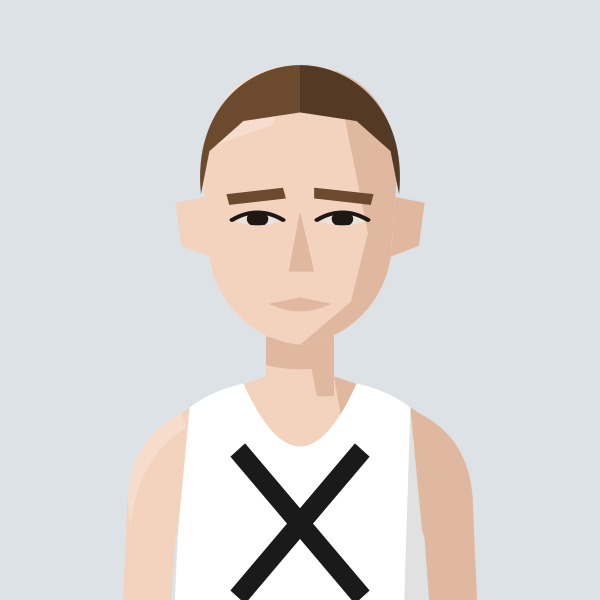
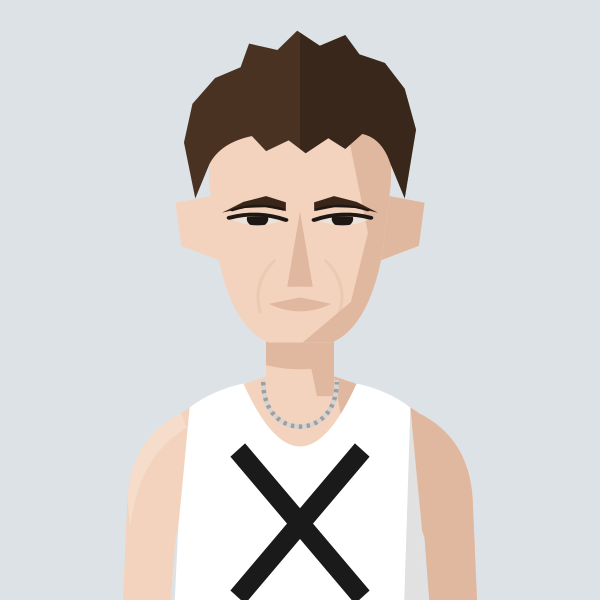
Redraw Jacob Brockmann portrait: arched brows, light creases, squarer chin
Claude-Session: https://claude.ai/code/session_01MgmDWhFqnSSnP4iBLKXUZC

diff --git a/files/index.html b/files/index.html
@@ -887,7 +887,7 @@ const portraitFile=(name,club)=>{const k=normalizeNameForCompare(name||'').repla
 const portraitClubOf=(name,clubs)=>{for(const c of clubs||[]){if(c&&portraitFile(name,c))return c;}return null;}; /* first of these clubs we have a portrait for */
 // Athlete header figure: superstar portrait if we have one, else a grey runner in the club vest, else the plain vest icon
 // Changes whenever any portrait changes (set by tools/build_og.py), so browsers fetch fresh images instead of old cached ones
-const PORTRAIT_V='8a8cc05c';const PORTRAIT_WOMEN='abbey-brooke,abbie-bulbulian,adele-prince,aimee-hargreaves,aisling-ahern,alex-brown,alex-gandee,alex-marginean,alex-miller,alexa-parker,alexandra-barbour,alice-braham,alice-bridger-morales,alice-crane,alice-martin,alice-reed,alice-smith,alison-purnell,alison-thomson,amelia-pettitt,amy-clements,andrea-barber,anika-schwarze-chintapatla,anna-garnier,anna-garnier-hw,anna-sharp,annabel-hobday,annabelle-hadlow,anne-hegvold,annmarie-seymour,ava-mcandie,becky-briggs,bethan-goddard,bethanie-murray,bethany-brown,betsy-griffiths,billie-mcclosky,camilla-barden,caoimhe-nic-fhogartaigh,carolyne-baxter,catherine-bryson,catherine-eastham,catherine-kandie,cathy-ansell,charlotte-griffiths,chloe-beckett,chloe-tighe,chrissie-wellington,claire-grima,clara-pettit,clare-elms,clare-pauzers,dillan-quinn,dorchie-cockerell,eilidh-hide,elinor-skinner,eliza-grant,elizabeth-apsley,elizabeth-stavreski,ella-fennelly,ella-king-powrie,ella-may-hards,ella-newton,ellen-weir,ellie-brown,ellie-freeden,eloise-bull,emilie-arnoux,emily-barrett,emily-bradley,emily-lowery,emily-robbins,emma-bond,emma-gordon,emma-howsham,emma-lord,emma-rowland,estle-viljoen,evie-warren,felicity-cole,felicity-harrison,felicity-hayward,fi-maddocks,fiona-de-mauny,florence-wiggins,gabby-collison,gabriel-reynolds,gemma-newport,genevieve-blanch,georgia-curry,georgie-bruinvels,georgie-fenn,georgie-furze,georgie-grgec,gina-galbraith,grace-leyland,grace-richardson,hannah-edwards,hannah-english,heather-statham,heather-statham-cc,helen-alsop,helena-corbin,helena-keenan,holly-nixon,holly-pan,imogen-mackie,imogen-wolsey,iona-cousland,isabel-bradley,isabel-brinsden,isabel-hodder,isabelle-pickett,jennifer-nandi,jennifer-smith,jess-reed,jess-saunders,jess-winfield,jessica-davies,jessica-lowe,jodie-favell,jon-hobbs,josephine-rhodes,julia-bleasdale,julia-wedmore,juliet-hodder,juliette-clark,jurgita-levertaviciute,justine-lynch,karen-fenner,karen-xiang,karina-box,kate-axford,kate-williams,kathy-sharpe,katie-ellen-french,katie-good,katie-snowden,katy-hedgethorne,kitty-shepherd-cross,kristina-popadich,lara-bromilow,lara-mangan,laura-goodson,laura-miles,lauren-major,lea-adamson,lily-newton,lisa-bailey,lisa-thomas,lisa-thomas-hw,lizzie-goldie-scot,louise-cooper,lucy-jones,lucy-macalister,lucy-peters,lydia-blackmore,lydia-gallyer-barnett,maddie-mastrolonardo,maddy-whitman,maeve-kenny,margaret-coogan,martina-conner,mary-james,mary-setyabule,matilde-lomba,megan-gildea,mel-wilkins,mhairi-hall,mimi-corden-lloyd,molly-oconnor,molly-smith,monika-gajek,naomi-lenane,natalie-beadle,natalie-seymour,natasha-lodge,niamh-thompson,nicky-hayes,nicola-cartlidge,nicola-douglas,nikki-haines,nikki-sturzaker,nina-mills,olivia-papaioannou,olivia-stillman,orna-mcginley,pamela-mchutchon,patricia-walker,patrizia-gnoato,penny-oliver,rachel-brown,rebecca-barrow,rebekah-edgar,rosie-powell,ruby-carter,ruby-whyte-wilding,ruby-woolfe,sally-urquhart,sally-young,sally-young-slh,sam-whiting,samantha-munday,sarah-astin,sarah-dewhirst,sarah-grover,sarah-hanley,sarah-holt,sarah-murphy,sarah-palmer,sarah-palmer-ran,sarah-riceman,sarah-young,saron-haileselase,serena-carter,sophie-cowper,sophie-harris,sophie-hicks,sophie-tooley,stacey-ward,steph-hewitt,steph-mccall,steph-mccall-cc,steph-mccall-slh,steph-mitchell,suzanne-swaine,suze-spalding,suzie-harvey,suzy-whatmough,syreeta-stracey,teresa-murphy,tilly-heaton,tilly-heaton-bel,tish-jones,vic-cartwright,vicky-clarke,vicky-edwards,victoria-barthelmess,victoria-buck,vikki-filsell,zoe-doyle,zoe-macdonald,zuzana-nemeckova';const PORTRAIT_MEN='aaron-wilson,abdulla-elsadig,adam-leane,adrian-major,adrien-royer,alan-black,alan-mead,alex-brecker,alex-bruce-littlewood,alex-gutteridge,alex-harris,alex-howard,alex-janiaud,alex-lee,alex-lennon,alex-mills,alex-milne,alex-morales,alex-robinson,alex-yee,alexander-marks,amittai-ben-israel,andrew-cumine,andrew-green,andrew-penney,andrew-perfect,andrew-simms,andrew-warburton,andrius-jaksevicius,andy-coley-maud,andy-coley-maud-cc,andy-fyfe,andy-north,andy-paton,andy-weir,angus-butler,angus-lamb,anisse-ismaili,arlo-ludewick,arne-dumez,arthur-peel,ashley-goncalves,barnaby-day,barry-collins,barry-sawyer,ben-clarke,ben-coughlan,ben-harding,ben-hurley,ben-ireland,ben-millar,ben-paviour,ben-pearce,ben-racle,ben-revill,ben-reynolds,ben-scott,ben-toomer,benedict-whitby,benjamin-hilson,bernie-ford,bill-kerr,bill-weller,bill-weller-wal,bob-harrison,bob-holt,bob-lunnon,bob-rayman,bob-smith,bradley-courtney-pinn,brandon-dewar,brian-gorman,brian-wilder,caleb-hathaway,callum-stewart,cameron-dockerill,cameron-reilly,carl-delaney,charles-herrington,charlie-dabbs,charlie-dickinson,charlie-eastaugh,charlie-manning,charlie-pickett,charlie-rogers,charlie-sandison,charlie-walker,charlie-wyllie,che-compton,chris-busaileh,chris-busaileh-hhh,chris-greenwood,chris-keavey,chris-moss,chris-steer,chris-threadgold,chris-warren,christian-lee,christopher-parker,clive-gilby,clive-shippen,colin-high,colin-pearson,conall-mcnally,conall-whelan,craig-ruddy,dame-dibaba,dan-cliffe,dan-pettitt,daniel-shaw,daniel-wolff,darren-mead,dave-beard,dave-beaver,dave-clarke,dave-glassborow,dave-hill,dave-holt,dave-taylor,david-anderson,david-bowers,david-grima,david-north,david-ogden,david-symons,david-walsh,david-williams,deron-fagan,dick-piotrowski,dimos-evangelidis,dom-nolan,dominic-kiralyfi,don-anderson,don-faircloth,don-maclean,doug-maughan,duncan-rimmer,dylan-evans,dylan-mitchard,ed-brewer,ed-catmur,ed-gibson,ed-mallett,ed-prickett,eddie-herridge,eddie-jodrell,eddie-rolls,edward-chuck,eoin-brady,eoin-molloy,ethan-mccolgan,falilou-kebe,findlay-dyer,finn-johnson,fintan-pearce,frank-tickner,frank-ward,fred-paget,fred-slemeck,fred-stebbings,freddie-hessian,garret-lee,gary-ribbons,gary-ribbons-ee,gary-staines,gary-staines-bel,gavin-eccles,geoff-biscoe,geoff-jerwood,geoff-north,george-cotton,george-gathercole,george-jackson,george-loxton,george-mallett,george-ogden,gerry-adams,gerry-north,glen-keegan,gordon-pearce,graham-macky,grenville-tuck,harrison-hayman,harry-guttridge,hector-revill,henry-hart,henry-silverstein,hugo-hewitt,huw-lobb,ian-acreman,ian-crowe-wright,ian-ellwood,ian-harkness,indy-barnes,isaac-lutaya,isaac-parker,jack-brotchie,jack-dickson,jack-dormer,jack-hampshire,jack-harrison,jack-hobden,jack-kavanagh,jack-millar,jack-ramm,jack-woods,jacob-brockmann,jake-simmonds,james-bartram,james-blackwood,james-bowler,james-estall,james-ewing,james-fox,james-hancock,james-harvey,james-hoad,james-kelly,james-mcmullan,james-murray,james-nutt,james-preston,james-roberts,james-stockings,james-ward,james-wootton,jamie-crowe,jamie-parkinson,jared-martin,jean-paul-wright,jeff-cunningham,jeremy-dempsey,jermaine-mays,jerry-watson,jim-allchin,jim-rimmer,joachim-wolf,joe-english,joe-hartley,john-baker,john-bicourt,john-bromley,john-davies,john-dear,john-foss,john-foxall,john-gilbert,john-gladwin,john-hutchins,john-kendall,john-kimaiyo,john-lee,john-lethbridge,john-mather,john-moore,john-roberts,john-sanderson,john-snowden,john-stow,john-sullivan,john-thresher,jon-pepper,jon-pepper-slh,jon-phillips,jon-solly,jonathan-cocker,jonathan-collier,jonathan-cornish,jonathan-ratcliffe,jonathan-tipper,jonny-neville,jonny-scott,jordan-weaver,josh-mitchell,josh-snow,josh-trigwell,jules-gevers,junior-galley,justin-chaston,justin-reid,kassa-tadesse,keith-newton,ken-penney,ken-penney-cro,kevin-nash,kevin-quinn,kevin-sturman,kieran-barnes,kieran-white,knut-hegvold,knut-hegvold-bel,larry-ryan,lawrence-avery,lee-lintern,les-presland,les-presland-sur,lewis-lloyd,liam-burthem,lionel-mann,lloyd-kempson,luke-caldwell,mack-downie,malachi-byansi,marcello-bizio,marcelo-fortes,marco-mazzotta,mark-anderson,mark-miles,mark-sinclair,mark-tennyson,mark-waller,martin-dent,martin-duff,martin-lake,martin-lewington,martin-shore,mathew-speed,matt-chaston,matt-jones,matt-wood,matt-yates,matthew-edgar,matthew-houchell,matthew-thomas,matthew-varley,max-bloor,max-heyden,max-milarvie,max-nicholls,michael-baker,michael-mccarthy,mick-gowan,mick-woods,mike-beevor,mike-boyle,mike-cummings,mike-farmery,mike-fuller,mike-hayes,mike-kortenray,mike-nouch,mohammed-ismail,monty-hudson,morgan-roberts,nathan-visick,neil-chisholm,neil-phillips,neil-speaight,neil-wilson,nic-lukies,nick-acfield,nick-altmann,nick-bester,nick-bester-hhh,nick-buckle,nick-bundle,nick-goolab,nick-lightfoot,nick-morris,nick-torry,noah-fernandez,norman-stairs,oli-carrington,oliver-carrington,oliver-fox,oliver-reynolds,oliver-young,ollie-foote,ollie-garrod,olly-buck,owen-hind,paddy-roddy,pancho-panchev,paskar-owor,pat-newell,patrick-mcdougall,paul-calver,paul-cheetham,paul-evans,paul-freary,paul-magner,paul-pollock,paul-sanderson,paul-sanderson-wok,pete-carton,pete-gardner,peter-clarke,peter-giles,peter-giles-thh,peter-lighting,phil-carstairs,phil-sanders,phil-sesemann,phil-swinburn,phil-wicks,phil-woodford-smith,raj-paranandi,ralph-street,ranjit-bhatia,ray-foley,reece-edwards,rhys-boorman,rian-mccawley,richard-ashe,richard-giles,richard-henderson,richard-langley,richard-mcdowell,richard-ollington,richard-partridge,richard-sun,richard-ward,rob-armstrong,rob-kelly,rob-tuer,robert-elphick,robert-laing,robert-norville,robert-peacock,robert-sesemann,robin-boon,robin-hudson,roger-alsop,roger-alsop-bel,roger-hackney,ron-clark,ron-linstead,ronan-tanguy,rory-mcmahon,rory-orsborn,ross-braden,ross-christie,rowan-board,rowan-crichton,russell-dessaix-chin,ryan-hickey,ryan-mccallister,sam-bramwell,sam-charlton,sam-gebreselassie,sam-haughian,sam-peters,sam-sommerville,sam-tyas,samuel-dames,samuel-wilcock,sean-cordon,sebastian-anthony,simon-baines,simon-coombes,simon-coppard,simon-fairbrother,simon-holmes,simon-rayner,simon-rayner-hw,simon-wade,simon-wade-hhh,simon-waterhouse,simon-williams,simon-wurr,sonny-nicoll,spencer-barden,stephen-mcleod,stephen-sharp,steve-badgery,steve-badgery-mit,steve-gardner,steve-jones,steve-smythe,steve-smythe-hhh,stuart-beaney,stuart-major,stuart-major-thh,stuart-mccallum,stuart-paton,terry-booth,thomas-dugre,thomas-gandee,thomas-gardner,thomas-renshaw,tim-alexander,tim-eglen,tim-lawrence,tim-watson,toby-cooke,toby-fletcher,tom-austin,tom-cheetham,tom-conlon,tom-davies,tom-gifford,tom-higgs,tom-jervis,tom-lole,tom-south,tom-thornley,tommy-taylor,tony-binda,tony-fairclough,tony-harran,trevor-hart,valdis-pauzers,valentin-rigori,vic-maughan,wayne-oxborough,will-cockerell,will-lewis,will-marshall,will-scott,will-stockley,william-gardner,yacin-yusuf,zach-nolan';
+const PORTRAIT_V='518fd189';const PORTRAIT_WOMEN='abbey-brooke,abbie-bulbulian,adele-prince,aimee-hargreaves,aisling-ahern,alex-brown,alex-gandee,alex-marginean,alex-miller,alexa-parker,alexandra-barbour,alice-braham,alice-bridger-morales,alice-crane,alice-martin,alice-reed,alice-smith,alison-purnell,alison-thomson,amelia-pettitt,amy-clements,andrea-barber,anika-schwarze-chintapatla,anna-garnier,anna-garnier-hw,anna-sharp,annabel-hobday,annabelle-hadlow,anne-hegvold,annmarie-seymour,ava-mcandie,becky-briggs,bethan-goddard,bethanie-murray,bethany-brown,betsy-griffiths,billie-mcclosky,camilla-barden,caoimhe-nic-fhogartaigh,carolyne-baxter,catherine-bryson,catherine-eastham,catherine-kandie,cathy-ansell,charlotte-griffiths,chloe-beckett,chloe-tighe,chrissie-wellington,claire-grima,clara-pettit,clare-elms,clare-pauzers,dillan-quinn,dorchie-cockerell,eilidh-hide,elinor-skinner,eliza-grant,elizabeth-apsley,elizabeth-stavreski,ella-fennelly,ella-king-powrie,ella-may-hards,ella-newton,ellen-weir,ellie-brown,ellie-freeden,eloise-bull,emilie-arnoux,emily-barrett,emily-bradley,emily-lowery,emily-robbins,emma-bond,emma-gordon,emma-howsham,emma-lord,emma-rowland,estle-viljoen,evie-warren,felicity-cole,felicity-harrison,felicity-hayward,fi-maddocks,fiona-de-mauny,florence-wiggins,gabby-collison,gabriel-reynolds,gemma-newport,genevieve-blanch,georgia-curry,georgie-bruinvels,georgie-fenn,georgie-furze,georgie-grgec,gina-galbraith,grace-leyland,grace-richardson,hannah-edwards,hannah-english,heather-statham,heather-statham-cc,helen-alsop,helena-corbin,helena-keenan,holly-nixon,holly-pan,imogen-mackie,imogen-wolsey,iona-cousland,isabel-bradley,isabel-brinsden,isabel-hodder,isabelle-pickett,jennifer-nandi,jennifer-smith,jess-reed,jess-saunders,jess-winfield,jessica-davies,jessica-lowe,jodie-favell,jon-hobbs,josephine-rhodes,julia-bleasdale,julia-wedmore,juliet-hodder,juliette-clark,jurgita-levertaviciute,justine-lynch,karen-fenner,karen-xiang,karina-box,kate-axford,kate-williams,kathy-sharpe,katie-ellen-french,katie-good,katie-snowden,katy-hedgethorne,kitty-shepherd-cross,kristina-popadich,lara-bromilow,lara-mangan,laura-goodson,laura-miles,lauren-major,lea-adamson,lily-newton,lisa-bailey,lisa-thomas,lisa-thomas-hw,lizzie-goldie-scot,louise-cooper,lucy-jones,lucy-macalister,lucy-peters,lydia-blackmore,lydia-gallyer-barnett,maddie-mastrolonardo,maddy-whitman,maeve-kenny,margaret-coogan,martina-conner,mary-james,mary-setyabule,matilde-lomba,megan-gildea,mel-wilkins,mhairi-hall,mimi-corden-lloyd,molly-oconnor,molly-smith,monika-gajek,naomi-lenane,natalie-beadle,natalie-seymour,natasha-lodge,niamh-thompson,nicky-hayes,nicola-cartlidge,nicola-douglas,nikki-haines,nikki-sturzaker,nina-mills,olivia-papaioannou,olivia-stillman,orna-mcginley,pamela-mchutchon,patricia-walker,patrizia-gnoato,penny-oliver,rachel-brown,rebecca-barrow,rebekah-edgar,rosie-powell,ruby-carter,ruby-whyte-wilding,ruby-woolfe,sally-urquhart,sally-young,sally-young-slh,sam-whiting,samantha-munday,sarah-astin,sarah-dewhirst,sarah-grover,sarah-hanley,sarah-holt,sarah-murphy,sarah-palmer,sarah-palmer-ran,sarah-riceman,sarah-young,saron-haileselase,serena-carter,sophie-cowper,sophie-harris,sophie-hicks,sophie-tooley,stacey-ward,steph-hewitt,steph-mccall,steph-mccall-cc,steph-mccall-slh,steph-mitchell,suzanne-swaine,suze-spalding,suzie-harvey,suzy-whatmough,syreeta-stracey,teresa-murphy,tilly-heaton,tilly-heaton-bel,tish-jones,vic-cartwright,vicky-clarke,vicky-edwards,victoria-barthelmess,victoria-buck,vikki-filsell,zoe-doyle,zoe-macdonald,zuzana-nemeckova';const PORTRAIT_MEN='aaron-wilson,abdulla-elsadig,adam-leane,adrian-major,adrien-royer,alan-black,alan-mead,alex-brecker,alex-bruce-littlewood,alex-gutteridge,alex-harris,alex-howard,alex-janiaud,alex-lee,alex-lennon,alex-mills,alex-milne,alex-morales,alex-robinson,alex-yee,alexander-marks,amittai-ben-israel,andrew-cumine,andrew-green,andrew-penney,andrew-perfect,andrew-simms,andrew-warburton,andrius-jaksevicius,andy-coley-maud,andy-coley-maud-cc,andy-fyfe,andy-north,andy-paton,andy-weir,angus-butler,angus-lamb,anisse-ismaili,arlo-ludewick,arne-dumez,arthur-peel,ashley-goncalves,barnaby-day,barry-collins,barry-sawyer,ben-clarke,ben-coughlan,ben-harding,ben-hurley,ben-ireland,ben-millar,ben-paviour,ben-pearce,ben-racle,ben-revill,ben-reynolds,ben-scott,ben-toomer,benedict-whitby,benjamin-hilson,bernie-ford,bill-kerr,bill-weller,bill-weller-wal,bob-harrison,bob-holt,bob-lunnon,bob-rayman,bob-smith,bradley-courtney-pinn,brandon-dewar,brian-gorman,brian-wilder,caleb-hathaway,callum-stewart,cameron-dockerill,cameron-reilly,carl-delaney,charles-herrington,charlie-dabbs,charlie-dickinson,charlie-eastaugh,charlie-manning,charlie-pickett,charlie-rogers,charlie-sandison,charlie-walker,charlie-wyllie,che-compton,chris-busaileh,chris-busaileh-hhh,chris-greenwood,chris-keavey,chris-moss,chris-steer,chris-threadgold,chris-warren,christian-lee,christopher-parker,clive-gilby,clive-shippen,colin-high,colin-pearson,conall-mcnally,conall-whelan,craig-ruddy,dame-dibaba,dan-cliffe,dan-pettitt,daniel-shaw,daniel-wolff,darren-mead,dave-beard,dave-beaver,dave-clarke,dave-glassborow,dave-hill,dave-holt,dave-taylor,david-anderson,david-bowers,david-grima,david-north,david-ogden,david-symons,david-walsh,david-williams,deron-fagan,dick-piotrowski,dimos-evangelidis,dom-nolan,dominic-kiralyfi,don-anderson,don-faircloth,don-maclean,doug-maughan,duncan-rimmer,dylan-evans,dylan-mitchard,ed-brewer,ed-catmur,ed-gibson,ed-mallett,ed-prickett,eddie-herridge,eddie-jodrell,eddie-rolls,edward-chuck,eoin-brady,eoin-molloy,ethan-mccolgan,falilou-kebe,findlay-dyer,finn-johnson,fintan-pearce,frank-tickner,frank-ward,fred-paget,fred-slemeck,fred-stebbings,freddie-hessian,garret-lee,gary-ribbons,gary-ribbons-ee,gary-staines,gary-staines-bel,gavin-eccles,geoff-biscoe,geoff-jerwood,geoff-north,george-cotton,george-gathercole,george-jackson,george-loxton,george-mallett,george-ogden,gerry-adams,gerry-north,glen-keegan,gordon-pearce,graham-macky,grenville-tuck,harrison-hayman,harry-guttridge,hector-revill,henry-hart,henry-silverstein,hugo-hewitt,huw-lobb,ian-acreman,ian-crowe-wright,ian-ellwood,ian-harkness,indy-barnes,isaac-lutaya,isaac-parker,jack-brotchie,jack-dickson,jack-dormer,jack-hampshire,jack-harrison,jack-hobden,jack-kavanagh,jack-millar,jack-ramm,jack-woods,jacob-brockmann,jake-simmonds,james-bartram,james-blackwood,james-bowler,james-estall,james-ewing,james-fox,james-hancock,james-harvey,james-hoad,james-kelly,james-mcmullan,james-murray,james-nutt,james-preston,james-roberts,james-stockings,james-ward,james-wootton,jamie-crowe,jamie-parkinson,jared-martin,jean-paul-wright,jeff-cunningham,jeremy-dempsey,jermaine-mays,jerry-watson,jim-allchin,jim-rimmer,joachim-wolf,joe-english,joe-hartley,john-baker,john-bicourt,john-bromley,john-davies,john-dear,john-foss,john-foxall,john-gilbert,john-gladwin,john-hutchins,john-kendall,john-kimaiyo,john-lee,john-lethbridge,john-mather,john-moore,john-roberts,john-sanderson,john-snowden,john-stow,john-sullivan,john-thresher,jon-pepper,jon-pepper-slh,jon-phillips,jon-solly,jonathan-cocker,jonathan-collier,jonathan-cornish,jonathan-ratcliffe,jonathan-tipper,jonny-neville,jonny-scott,jordan-weaver,josh-mitchell,josh-snow,josh-trigwell,jules-gevers,junior-galley,justin-chaston,justin-reid,kassa-tadesse,keith-newton,ken-penney,ken-penney-cro,kevin-nash,kevin-quinn,kevin-sturman,kieran-barnes,kieran-white,knut-hegvold,knut-hegvold-bel,larry-ryan,lawrence-avery,lee-lintern,les-presland,les-presland-sur,lewis-lloyd,liam-burthem,lionel-mann,lloyd-kempson,luke-caldwell,mack-downie,malachi-byansi,marcello-bizio,marcelo-fortes,marco-mazzotta,mark-anderson,mark-miles,mark-sinclair,mark-tennyson,mark-waller,martin-dent,martin-duff,martin-lake,martin-lewington,martin-shore,mathew-speed,matt-chaston,matt-jones,matt-wood,matt-yates,matthew-edgar,matthew-houchell,matthew-thomas,matthew-varley,max-bloor,max-heyden,max-milarvie,max-nicholls,michael-baker,michael-mccarthy,mick-gowan,mick-woods,mike-beevor,mike-boyle,mike-cummings,mike-farmery,mike-fuller,mike-hayes,mike-kortenray,mike-nouch,mohammed-ismail,monty-hudson,morgan-roberts,nathan-visick,neil-chisholm,neil-phillips,neil-speaight,neil-wilson,nic-lukies,nick-acfield,nick-altmann,nick-bester,nick-bester-hhh,nick-buckle,nick-bundle,nick-goolab,nick-lightfoot,nick-morris,nick-torry,noah-fernandez,norman-stairs,oli-carrington,oliver-carrington,oliver-fox,oliver-reynolds,oliver-young,ollie-foote,ollie-garrod,olly-buck,owen-hind,paddy-roddy,pancho-panchev,paskar-owor,pat-newell,patrick-mcdougall,paul-calver,paul-cheetham,paul-evans,paul-freary,paul-magner,paul-pollock,paul-sanderson,paul-sanderson-wok,pete-carton,pete-gardner,peter-clarke,peter-giles,peter-giles-thh,peter-lighting,phil-carstairs,phil-sanders,phil-sesemann,phil-swinburn,phil-wicks,phil-woodford-smith,raj-paranandi,ralph-street,ranjit-bhatia,ray-foley,reece-edwards,rhys-boorman,rian-mccawley,richard-ashe,richard-giles,richard-henderson,richard-langley,richard-mcdowell,richard-ollington,richard-partridge,richard-sun,richard-ward,rob-armstrong,rob-kelly,rob-tuer,robert-elphick,robert-laing,robert-norville,robert-peacock,robert-sesemann,robin-boon,robin-hudson,roger-alsop,roger-alsop-bel,roger-hackney,ron-clark,ron-linstead,ronan-tanguy,rory-mcmahon,rory-orsborn,ross-braden,ross-christie,rowan-board,rowan-crichton,russell-dessaix-chin,ryan-hickey,ryan-mccallister,sam-bramwell,sam-charlton,sam-gebreselassie,sam-haughian,sam-peters,sam-sommerville,sam-tyas,samuel-dames,samuel-wilcock,sean-cordon,sebastian-anthony,simon-baines,simon-coombes,simon-coppard,simon-fairbrother,simon-holmes,simon-rayner,simon-rayner-hw,simon-wade,simon-wade-hhh,simon-waterhouse,simon-williams,simon-wurr,sonny-nicoll,spencer-barden,stephen-mcleod,stephen-sharp,steve-badgery,steve-badgery-mit,steve-gardner,steve-jones,steve-smythe,steve-smythe-hhh,stuart-beaney,stuart-major,stuart-major-thh,stuart-mccallum,stuart-paton,terry-booth,thomas-dugre,thomas-gandee,thomas-gardner,thomas-renshaw,tim-alexander,tim-eglen,tim-lawrence,tim-watson,toby-cooke,toby-fletcher,tom-austin,tom-cheetham,tom-conlon,tom-davies,tom-gifford,tom-higgs,tom-jervis,tom-lole,tom-south,tom-thornley,tommy-taylor,tony-binda,tony-fairclough,tony-harran,trevor-hart,valdis-pauzers,valentin-rigori,vic-maughan,wayne-oxborough,will-cockerell,will-lewis,will-marshall,will-scott,will-stockley,william-gardner,yacin-yusuf,zach-nolan';
 // Runners whose dog pops up on their own profile page (a -dog.svg version of their portrait)
 const PROFILE_DOGS=new Set(['john-sanderson','penny-oliver','james-hancock','angus-butler']);
 const AthletePortrait=({name,club,w,fill,onClick,blink})=>{const[failed,setFailed]=useState(false);const file=portraitFile(name,club);const src0=file?`/portraits/athletes/${file}.svg?v=${PORTRAIT_V}`:PORTRAIT_CLUBS.has(club)?`/portraits/clubs/${club.replace(/\//g,'').replace(/&/g,'and')}.svg?v=${PORTRAIT_V}`:null;const blinkSrc=useBlinkSrc(file?(PROFILE_DOGS.has(file)?`/portraits/athletes/${file}-dog.svg?v=${PORTRAIT_V}`:src0):null,!!blink);const src=blinkSrc||src0;if(!src||failed)return<div onClick={onClick} className={onClick?'cursor-pointer':''}><ClubShield club={club} size={w}/></div>;const h=Math.round(w*148/126),ih=Math.round(w*1.4);if(fill)return<div onClick={onClick} className="cursor-pointer" style={{alignSelf:'stretch',minHeight:h,aspectRatio:'126 / 148',flexShrink:0,position:'relative',borderRadius:4,overflow:'hidden'}}><img src={src} alt={file?`Portrait of ${name.replace(/\s*\([^)]*\)$/,'')}`:`Runner in ${CLUBS[club]?.name||club} vest`} style={{position:'absolute',top:0,left:0,display:'block',width:'100%',height:'auto'}} onError={()=>setFailed(true)}/></div>;return<div style={{width:w,height:h,borderRadius:4,overflow:'hidden',flexShrink:0}}><img src={src} alt={file?`Portrait of ${name.replace(/\s*\([^)]*\)$/,'')}`:`Runner in ${CLUBS[club]?.name||club} vest`} width={w} height={ih} style={{display:'block',width:w,height:ih}} onError={()=>setFailed(true)}/></div>;};

diff --git a/tools/gen_portraits.py b/tools/gen_portraits.py
@@ -2139,4 +2139,7 @@ save("fred-stebbings", cheekhollows(nose(straightbrows(eyes(figure("CRO", skin=1
 # John Snowden (Surrey AC 1962-68; also listed as Snowdon), Oct 2026, from a 1960s race photo (hair colour inferred): short dark quiff, arched brows, pronounced cheek hollows
 save("john-snowden", cheekhollows(nose(brows(archbrows(eyes(figure("SUR", skin=1, hair="quiff", hair_colour="#3A2A20", brow_colour="#2A1D16"), None, 0), lift=1.5), 0, 0, 3), 1.0, 1.15), inset=2, depth=1.3, dy=3))
 
+# Jacob Brockmann (THH), Oct 2026 redraw: messy dark fringe, softly arched brows set close over hooded eyes, light nose-to-mouth creases, slightly squarer chin (jaw unchanged), silver chain
+_JB_SQ = HEAD_LONG.replace("119,163 108,169 L92,169 C81,163", "121,164 111,169 L89,169 C79,164")
+save("jacob-brockmann", lightcreases(nose(brows(eyes(archbrows(figure("THH", skin=1, hair="messyfringe", hair_colour="#4A3222", brow_colour="#3A2618", jaw="long", necklace="#D4D4D4", creases=True), lift=1.4), "hooded", 0), 0, 0, 4), 1.0, 1.25).replace('d="'+HEAD_LONG, 'd="'+_JB_SQ), .35))
 export_site()
